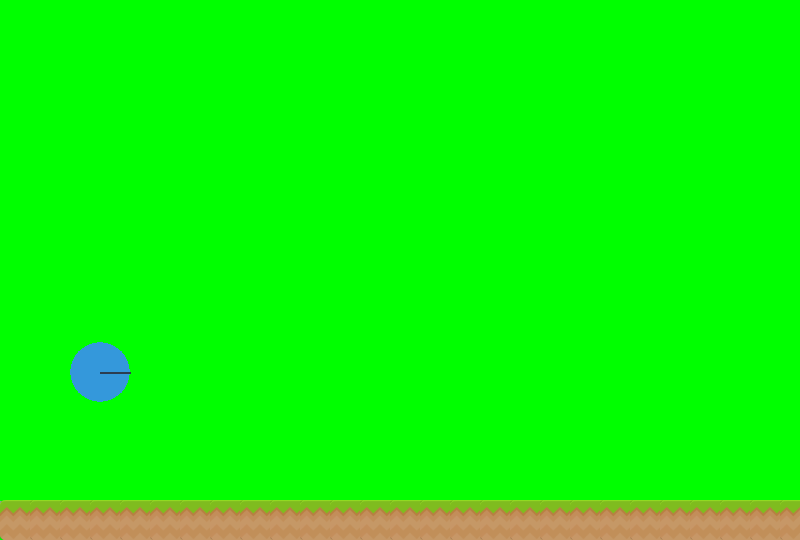
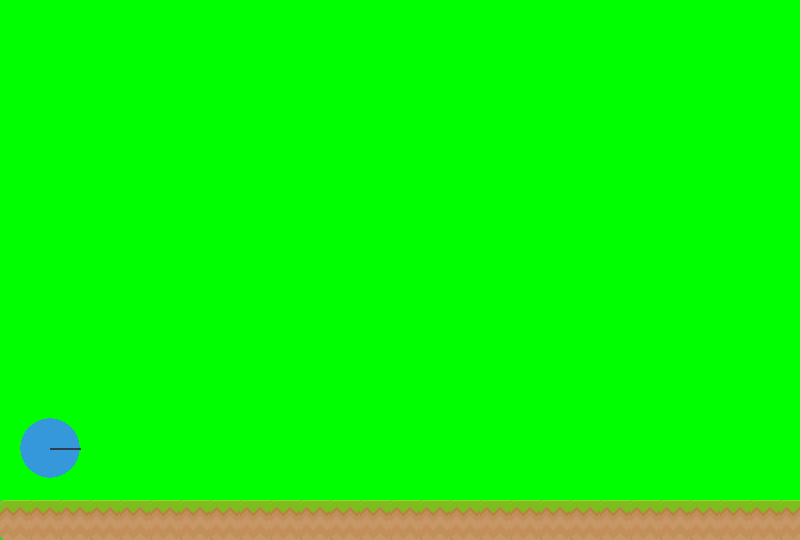
aprender mas

Changed region(s): [[0.0, 0.7704, 0.125, 0.8889], [0.0625, 0.6222, 0.1875, 0.7407]]

diff --git a/pymunk_ejemplos/intro.py b/pymunk_ejemplos/intro.py
@@ -6,6 +6,21 @@ pygame.init()
 space = pymunk.Space()
 space.gravity = 0, -900
 
+class circulo:
+    def __init__(self, masa, momentum, posicion, elasticidad,radio):
+        self.masa=masa
+        self.momentum=momentum
+        self.elasticidad=elasticidad
+        self.body = pymunk.Body()
+        self.radio = radio
+        self. posicion= posicion
+        self.body = pymunk.Body(mass=self.masa, moment=self.momentum)
+        self.body.position = self.posicion
+
+        circle = pymunk.Circle(self.body, radius=self.radio)
+        circle.elasticity = self.elasticidad
+        space.add(self.body,circle)
+
 
 
 
@@ -23,6 +38,7 @@ class App:
         img=pygame.transform.smoothscale(img, (40,40))
         reloj=pygame.time.Clock()
         while self.running:
+            tecla = pygame.key.get_pressed()
             for event in pygame.event.get():
                 if event.type == pygame.QUIT:
                     self.running = False
@@ -35,7 +51,7 @@ class App:
                 self.screen.blit(img,(0+j,500))
                 j=j+30
             pygame.display.update()
-            
+            print(space.body)
             space.step(0.01)
             reloj.tick(60)
         pygame.quit()

diff --git a/practica1.py b/practica1.py
@@ -6,11 +6,7 @@ b0 = space.static_body
 segment = pymunk.Segment(b0, (0, 35), (800, 35), 4)
 segment.elasticity = 1
 
-body = pymunk.Body(mass=1, moment=10)
-body.position = 100, 200
-
-circle = pymunk.Circle(body, radius=30)
-circle.elasticity = 0.95
-space.add(body, circle, segment)
+circulo(1, 10, (50,200), 0.95,30)
+space.add(segment)
 
 App().run()
